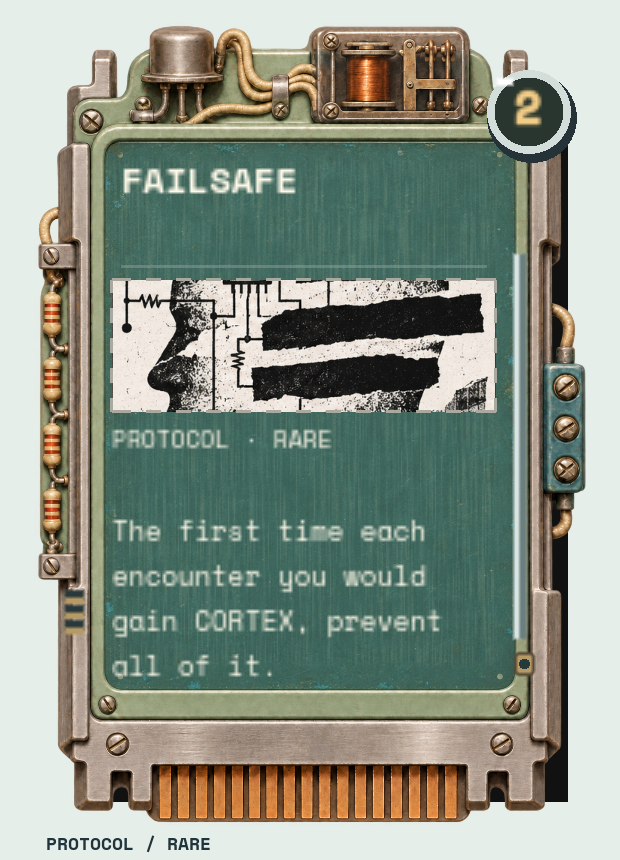
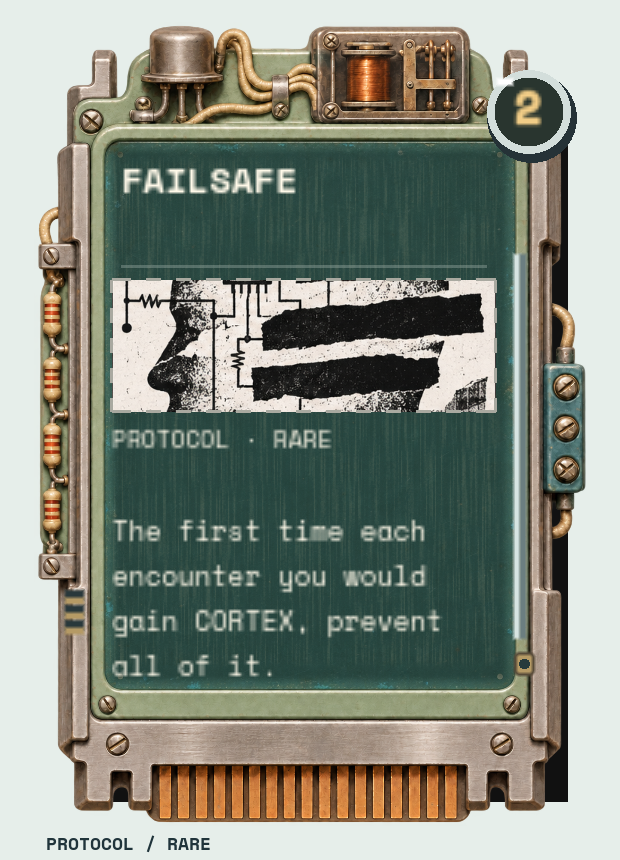
READ-001: darken the PROTOCOL face too; PULP-001 swing direction confirmed [skip ci]
PROTOCOL amber on blue-green was 4.18:1; now about 6.7:1, matching
SCRIPT and PROGRAM. Rules 357/0, cartridge UI 625/0, Chrome 0 fails.

Claude-Session: https://claude.ai/code/session_019hKEHvkDah2mghpwEjPDxT

Changed region(s): [[0.1839, 0.1512, 0.8274, 0.8163]]

diff --git a/docs/REDLINE_MASTER_DESIGN.md b/docs/REDLINE_MASTER_DESIGN.md
@@ -82,7 +82,7 @@ Not covered by this approval: the rules questions still listed in `HANDOFF.md` (
 
 COOKIE WALL keeps its TRACE 2 as the only FORTRESS TRACE. ACCEPT ALL, TERMS OF SERVICE and HOUSE CALL are unchanged. *Side effect:* CAPTCHA no longer carries PULP 6, so it won't turn lethal the way the approved VIS-001/CHROME-001 screenshots show; those images need refreshing once this is built.
 
-**PULP-001 — Roll size (APPROVED, 2026-11-17).** Each time a FORTRESS fixed-value PULP subroutine fires, roll its value around the printed number: usually **printed −2 to +2**; on about **30% of rolls** (about once every 3–4) the swing is instead **printed −3 or +3**. It is random, not on a schedule. **A roll never goes below PULP 1.** Designer: "the roll should be +2, -2 with once every 3 to 4 turns, a +3 or a -3", and chose a random chance over a fixed rhythm. *Working values for Codex to confirm in the log:* each value in −2..+2 equally likely; ±3 sign 50/50; the roll uses the Game RNG (seeded, reproducible). **No surprise (APPROVED, 2026-11-17):** the Rustler always sees exactly what PULP that subroutine will deal in the next Corporation Response. The value is rolled ahead of time (working timing: at the start of the Rustler's turn), shown on the ICE and in the response strip as a plain number, and that exact value is what fires (less any SCRAMBLE or other reductions the Rustler applies). The variation is between turns, not hidden inside one. Designer: "the rustler is always going to see what pulp damage the corporation is going to deliver next turn with that subroutine. So there is no surprise for the rustler." Consequently the VIS-001 lethal mood reads the shown rolled value (PULP 5+). **PULP-002 curves keep their designed patterns and do not roll (APPROVED, 2026-11-17).** Curves A (SEQUENTIAL), B (RANDOM) and C (HAMMER) are unchanged; the ±2/±3 roll applies only to fixed-value FORTRESS PULP. Under the no-surprise rule, every curve shows its **next value** before it fires; curve B no longer shows "PULP ?". Rationale: HAMMER's spikes are meant to be seen and planned for, and a roll could push its 9 to 12; RANDOM already works like a fair bag (always 30 over nine hits, no streaks); SEQUENTIAL is the learnable pattern; PACE-005 counts each curve at its designed average. Designer approved the recommendation: "Yes, record it that way."
+**PULP-001 — Roll size (APPROVED, 2026-11-17).** Each time a FORTRESS fixed-value PULP subroutine fires, roll its value around the printed number: usually **printed −2 to +2**; on about **30% of rolls** (about once every 3–4) the swing is instead **printed −3 or +3**. It is random, not on a schedule. **A roll never goes below PULP 1.** Designer: "the roll should be +2, -2 with once every 3 to 4 turns, a +3 or a -3", and chose a random chance over a fixed rhythm. *Big swings are equally likely up or down (+3 or −3), confirmed by the designer 2026-11-17.* *Working values still to confirm:* each value in −2..+2 equally likely; the roll uses the Game RNG (seeded, reproducible). **No surprise (APPROVED, 2026-11-17):** the Rustler always sees exactly what PULP that subroutine will deal in the next Corporation Response. The value is rolled ahead of time (working timing: at the start of the Rustler's turn), shown on the ICE and in the response strip as a plain number, and that exact value is what fires (less any SCRAMBLE or other reductions the Rustler applies). The variation is between turns, not hidden inside one. Designer: "the rustler is always going to see what pulp damage the corporation is going to deliver next turn with that subroutine. So there is no surprise for the rustler." Consequently the VIS-001 lethal mood reads the shown rolled value (PULP 5+). **PULP-002 curves keep their designed patterns and do not roll (APPROVED, 2026-11-17).** Curves A (SEQUENTIAL), B (RANDOM) and C (HAMMER) are unchanged; the ±2/±3 roll applies only to fixed-value FORTRESS PULP. Under the no-surprise rule, every curve shows its **next value** before it fires; curve B no longer shows "PULP ?". Rationale: HAMMER's spikes are meant to be seen and planned for, and a roll could push its 9 to 12; RANDOM already works like a fair bag (always 30 over nine hits, no streaks); SEQUENTIAL is the learnable pattern; PACE-005 counts each curve at its designed average. Designer approved the recommendation: "Yes, record it that way."
 
 ## 2. Player, corporation, and encounter loop
 The player is the **rustler**; the opposing system is the **corporation**. Encounters involve ICE, cards and breakers, damage/trace subroutines, and advancement gates. **LOCKED encounter order:**

diff --git a/docs/REDLINE_DEVELOPMENT_LOG.md b/docs/REDLINE_DEVELOPMENT_LOG.md
@@ -497,3 +497,8 @@ Refreshed ten CHROME-001 PNGs from `main` with Godot 4.3. All five capture stage
 ## 2026-11-17 — PULP-001: curves keep their patterns and show their next value (Claude)
 
 **Designer:** approved Claude's recommendation ("Yes, record it that way."). PULP-002 curves A/B/C do not get the ±2/±3 roll; all curves show their next value before firing, so curve B drops "PULP ?". Recorded in the master design doc and Core Rules §5.2; HANDOFF build row updated, WAITING row closed. **Code changes:** none.
+
+## 2026-11-17 — READ-001 extended to PROTOCOL; PULP-001 swing direction (Claude)
+
+**Designer:** "yes, apply the same contrast fix as script" for PROTOCOL, whose blue-green face measured amber 4.18:1. `card.gd` now applies the soft face shade per type: SCRIPT #2A1C10 at 55%, PROTOCOL #0C1E1C at 45% (fitted to the face measured from `protocol.png`, 14,28,136,182). Measured after: PROTOCOL amber 6.68:1 / ivory 9.62:1; SCRIPT 6.69 / 9.64; PROGRAM unchanged 6.91 / 9.97. Validation: rules 357/0, cartridge UI 625/0, Chrome stages 1–5 0 failures; cards-001 and chrome-001 fixtures refreshed. Committed with [skip ci].
+**Designer:** "big swings equally likely up and down is okay" (PULP-001 ±3 sign 50/50), recorded in the master design doc. The start-of-turn roll timing and equal odds within −2..+2 remain working values.
